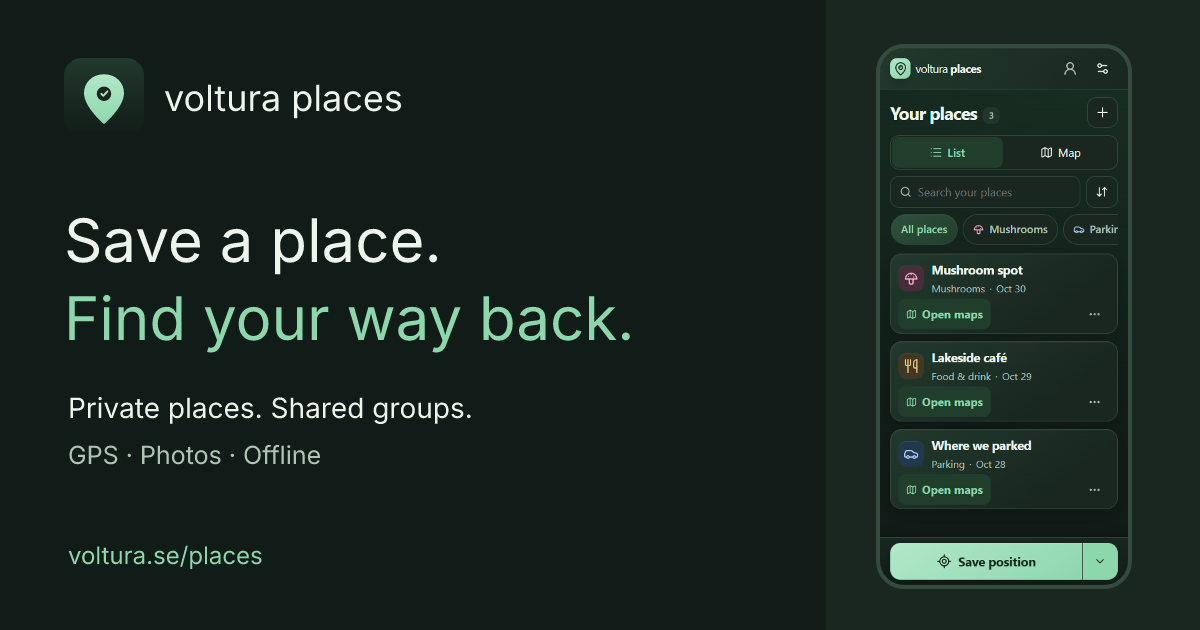
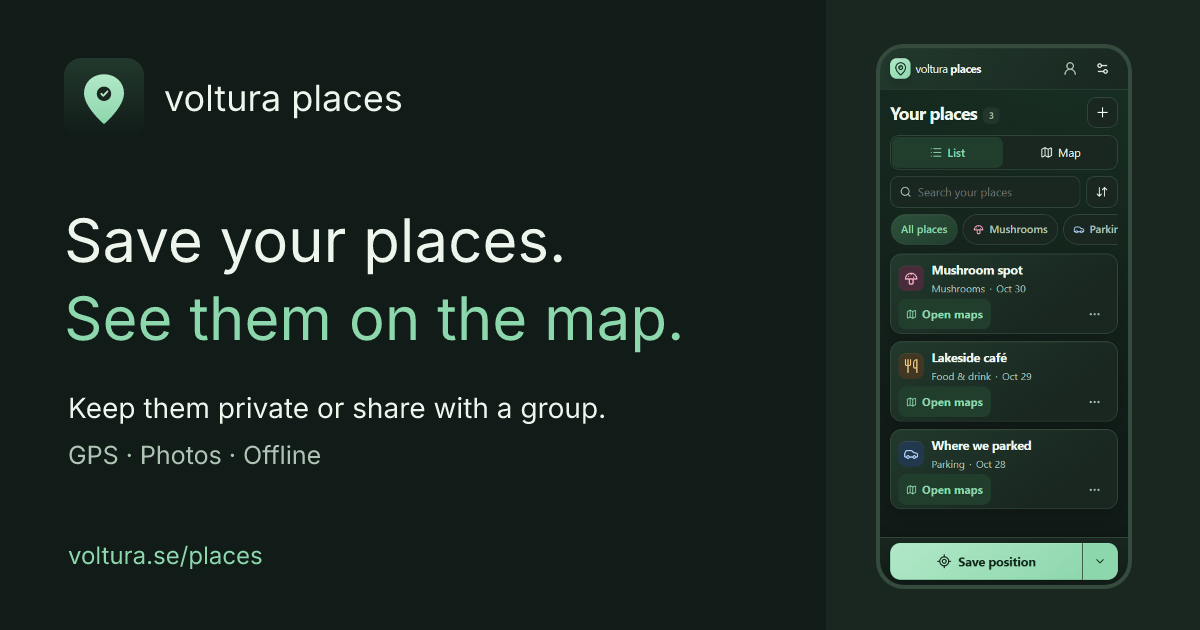
Release 0.1.20 with map-aware social preview copy

Changed region(s): [[0.0617, 0.4524, 0.555, 0.573], [0.185, 0.3619, 0.4625, 0.4524], [0.0617, 0.6333, 0.4933, 0.6635]]

diff --git a/index.html b/index.html
@@ -24,13 +24,13 @@
       content="Save GPS places with photos. Find them offline, sync across devices and share with groups."
     />
     <meta property="og:url" content="https://places.voltura.se/" />
-    <meta property="og:image" content="https://places.voltura.se/social-en.png?v=20261030" />
+    <meta property="og:image" content="https://places.voltura.se/social-en.png?v=20261102-map" />
     <meta property="og:image:width" content="1200" />
     <meta property="og:image:height" content="630" />
     <meta property="og:image:type" content="image/png" />
     <meta
       property="og:image:alt"
-      content="Voltura Places — save your places and find your way back"
+      content="Voltura Places — save places and find them on your map"
     />
     <meta name="twitter:card" content="summary_large_image" />
     <meta name="twitter:title" content="Voltura Places" />
@@ -38,10 +38,10 @@
       name="twitter:description"
       content="Save GPS places with photos. Find them offline, sync across devices and share with groups."
     />
-    <meta name="twitter:image" content="https://places.voltura.se/social-en.png?v=20261030" />
+    <meta name="twitter:image" content="https://places.voltura.se/social-en.png?v=20261102-map" />
     <meta
       name="twitter:image:alt"
-      content="Voltura Places — save your places and find your way back"
+      content="Voltura Places — save places and find them on your map"
     />
     <link rel="icon" type="image/svg+xml" href="/icon.svg" />
     <link rel="icon" type="image/png" sizes="32x32" href="/icon-32.png" />
